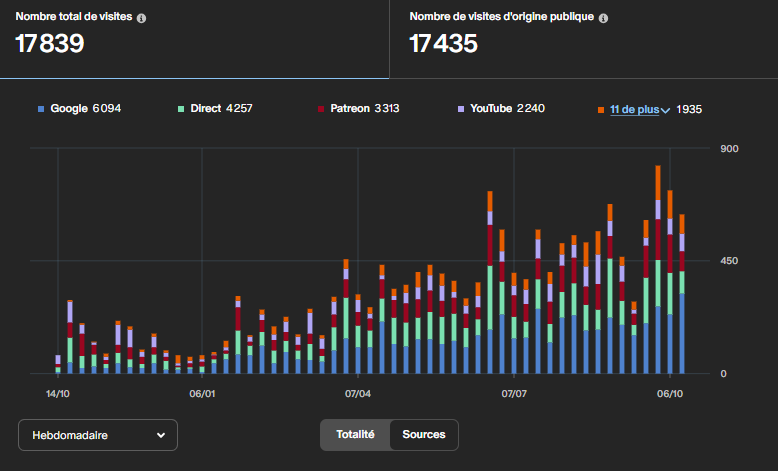
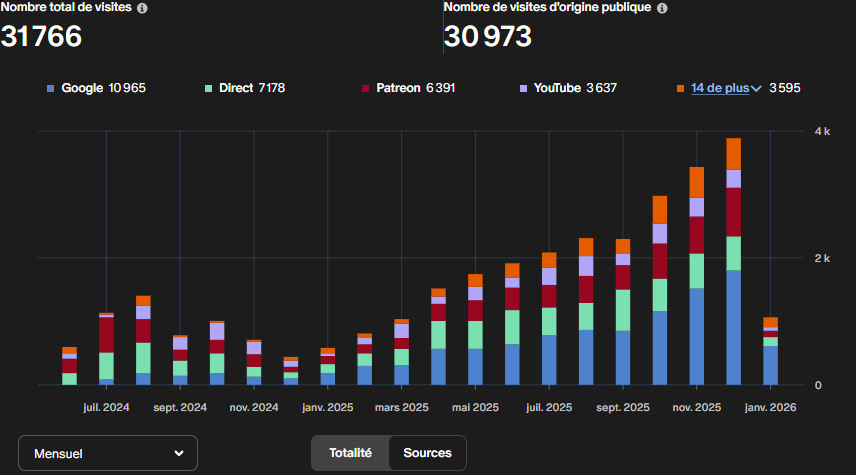
Update

diff --git a/README.md b/README.md
@@ -28,7 +28,7 @@ L’informatique est pour moi bien plus qu’une matière. C’est une passion, 
   - Certification en développement web [Certificat](source/web.pdf)
   - Lettre de recommandation attestant de mes compétences en développement web [Certificat](source/LettreDeRecommendationSTI.pdf)
 - **Modding & Création de Contenu**  
-  - Mods et leaks pour jeux vidéo, avec une page Patreon : ~3 000 USD gagnés à l’âge de 16 ans, ~800 abonnés, plus de 120 000 vues sur YouTube
+  - Création et vente de mods pour jeux vidéo, avec gestion d’une page Patreon : environ 3 700 USD gagnés à l’âge de 16 ans, 1500 abonnés, et plus de 120 000 vues sur YouTube.
 
 - **Python & Résolution de problèmes**  
   - Plusieurs projets Python incluant des programmes mathématiques et des interfaces PyQt5
